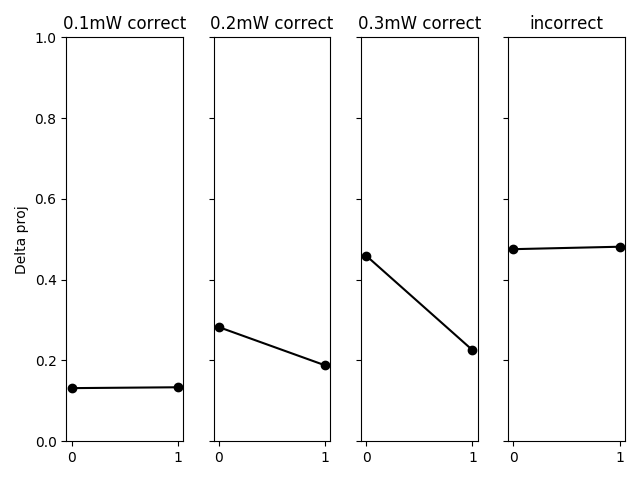
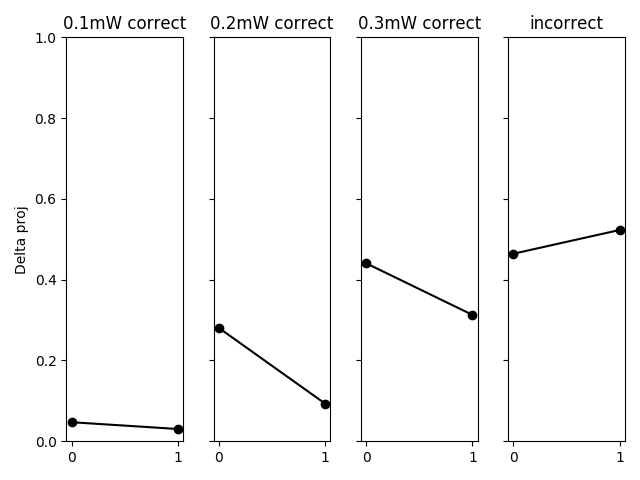
code plot phase line function started.

diff --git a/util_functions.py b/util_functions.py
@@ -288,8 +288,8 @@ def ALM_attractor_figs(r_mat, pv_vec, t_vec, dt, t_stim_start, t_stim_end, t_del
         r_right_pj_e.append(np.zeros((len(error_trials_right[pv_idx]), len(t_vec)))) 
         r_left_pj_e.append(np.zeros((len(error_trials_left[pv_idx]), len(t_vec))))
 
-        r_right_pj_e_avg.append(np.zeros((len(t_vec), 1)))
-        r_left_pj_e_avg.append(np.zeros((len(t_vec), 1)))
+        r_right_pj_e_avg.append(np.zeros((len(t_vec))))
+        r_left_pj_e_avg.append(np.zeros((len(t_vec))))
 
         for idx in range(len(error_trials_right[pv_idx])):
             r_right_pj_e[pv_idx][idx, :] = (np.matmul(r_right_e[pv_idx][idx][:][:], CD_delay) - left_norm) / \
@@ -304,14 +304,18 @@ def ALM_attractor_figs(r_mat, pv_vec, t_vec, dt, t_stim_start, t_stim_end, t_del
             ax5.plot(t_vec_plt, r_right_pj_e_avg[pv_idx], \
                 color = (0.1, 0.3, (6 - pv_idx)/(len(pv_vec) + 3), (8 - pv_idx)/(len(pv_vec) + 4)))
         elif len(error_trials_right[pv_idx]) == 1:
-            r_right_pj_e_avg.append(smooth(np.squeeze(r_right_pj_e[pv_idx], axis=0), np.round(win_ms/dt)))
+            r_right_pj_e_avg.append(smooth(np.squeeze(r_right_pj_e[pv_idx]), np.round(win_ms/dt)))
+        else:
+            print(len(error_trials_right[pv_idx]))
         
         if len(error_trials_left[pv_idx]) > 1:
             r_left_pj_e_avg.append(smooth(np.mean(r_left_pj_e[pv_idx], axis = 0), np.round(win_ms/dt)))
             ax5.plot(t_vec_plt, r_left_pj_e_avg[pv_idx], \
                 color = ((6 - pv_idx)/(len(pv_vec) + 3), 0.1, 0.4, (8 - pv_idx)/(len(pv_vec) + 4)))
         elif len(error_trials_left[pv_idx]) == 1:
-            r_left_pj_e_avg.append(smooth(np.squeeze(r_left_pj_e[pv_idx], axis=0), np.round(win_ms/dt)))
+            r_left_pj_e_avg.append(smooth(np.squeeze(r_left_pj_e[pv_idx]), np.round(win_ms/dt)))
+        else:
+            print(len(error_trials_left[pv_idx]))
 
         Data_at_each_bin.append(np.zeros((2,2)))
         Data_at_each_bin[pv_idx + 3][0,0] = r_right_pj_e_avg[pv_idx][bin_3]
@@ -431,17 +435,35 @@ def ALM_attractor_figs(r_mat, pv_vec, t_vec, dt, t_stim_start, t_stim_end, t_del
     plt.savefig('./figures/delta_proj.png')
     plt.close()
     
-    # TODO, plot phase line, there's seperated m script file in original code.
+    # Plot phase line
+    mean_proj_to_plot = []
+
+    for idx in range(10):
+        if idx < 8:
+            mean_proj_to_plot.append(mean_proj[idx].T)
+        else:
+            mean_proj_to_plot.append(np.nanmean([mean_proj[idx], mean_proj[idx+2], mean_proj[idx+4]], \
+                axis = 0).T)
+    
+    modes = [0, 2, 4, 6, 8, 1, 3, 5, 7, 9]
+
+    t_pl_start = -1.25
+
+    [f1, var_proj] = plot_phase_line(t_pl_start, t_vec_plt, mean_proj_to_plot, modes)
+            
+
     return [correct_trials_right, correct_trials_left, r_right_pj_c, r_left_pj_c]
 
 
 
 
 def smooth(a,WSZ):
-    # a: NumPy 1-D array containing the data to be smoothed
-    # WSZ: smoothing window size needs, which must be odd number,
-    # as in the original MATLAB implementation
-    # source: https://stackoverflow.com/questions/40443020/matlabs-smooth-implementation-n-point-moving-average-in-numpy-python
+    '''
+    a: NumPy 1-D array containing the data to be smoothed
+    WSZ: smoothing window size needs, which must be odd number,
+    as in the original MATLAB implementation
+    source: https://stackoverflow.com/questions/40443020/matlabs-smooth-implementation-n-point-moving-average-in-numpy-python
+    '''
     if WSZ%2 == 0:
         WSZ = int(WSZ) - 1
     else:
@@ -451,3 +473,27 @@ def smooth(a,WSZ):
     start = np.cumsum(a[:WSZ-1])[::2]/r
     stop = (np.cumsum(a[:-WSZ:-1])[::2]/r)[::-1]
     return np.concatenate((  start , out0, stop  ))
+
+def plot_phase_line(t_pl_start, t_vec_plt, mean_proj_to_plot, modes):
+    '''
+    '''
+    x_ax = np.arange(-10, 10, 0.2)
+
+    num_btstrap = mean_proj_to_plot[0].shape[0]
+    num_modes = len(modes)
+
+    f1 = 0
+    var_proj = 0
+    return [f1, var_proj]
+'''
+    for idx in range(num_btstrap):
+        proj_per_tmp = np.empty((num_modes, len(t_vec_plt)))
+        proj_per_tmp[:] = np.NaN
+        for m_idx in range(num_modes):
+            mm_idx = modes[m_idx]
+            
+            #proj_per_tmp[m_idx, :] = mean_proj_to_plot[modes[m_idx]][idx, :]
+            #proj_per_tmp[m_idx, :]
+
+            '''
+
